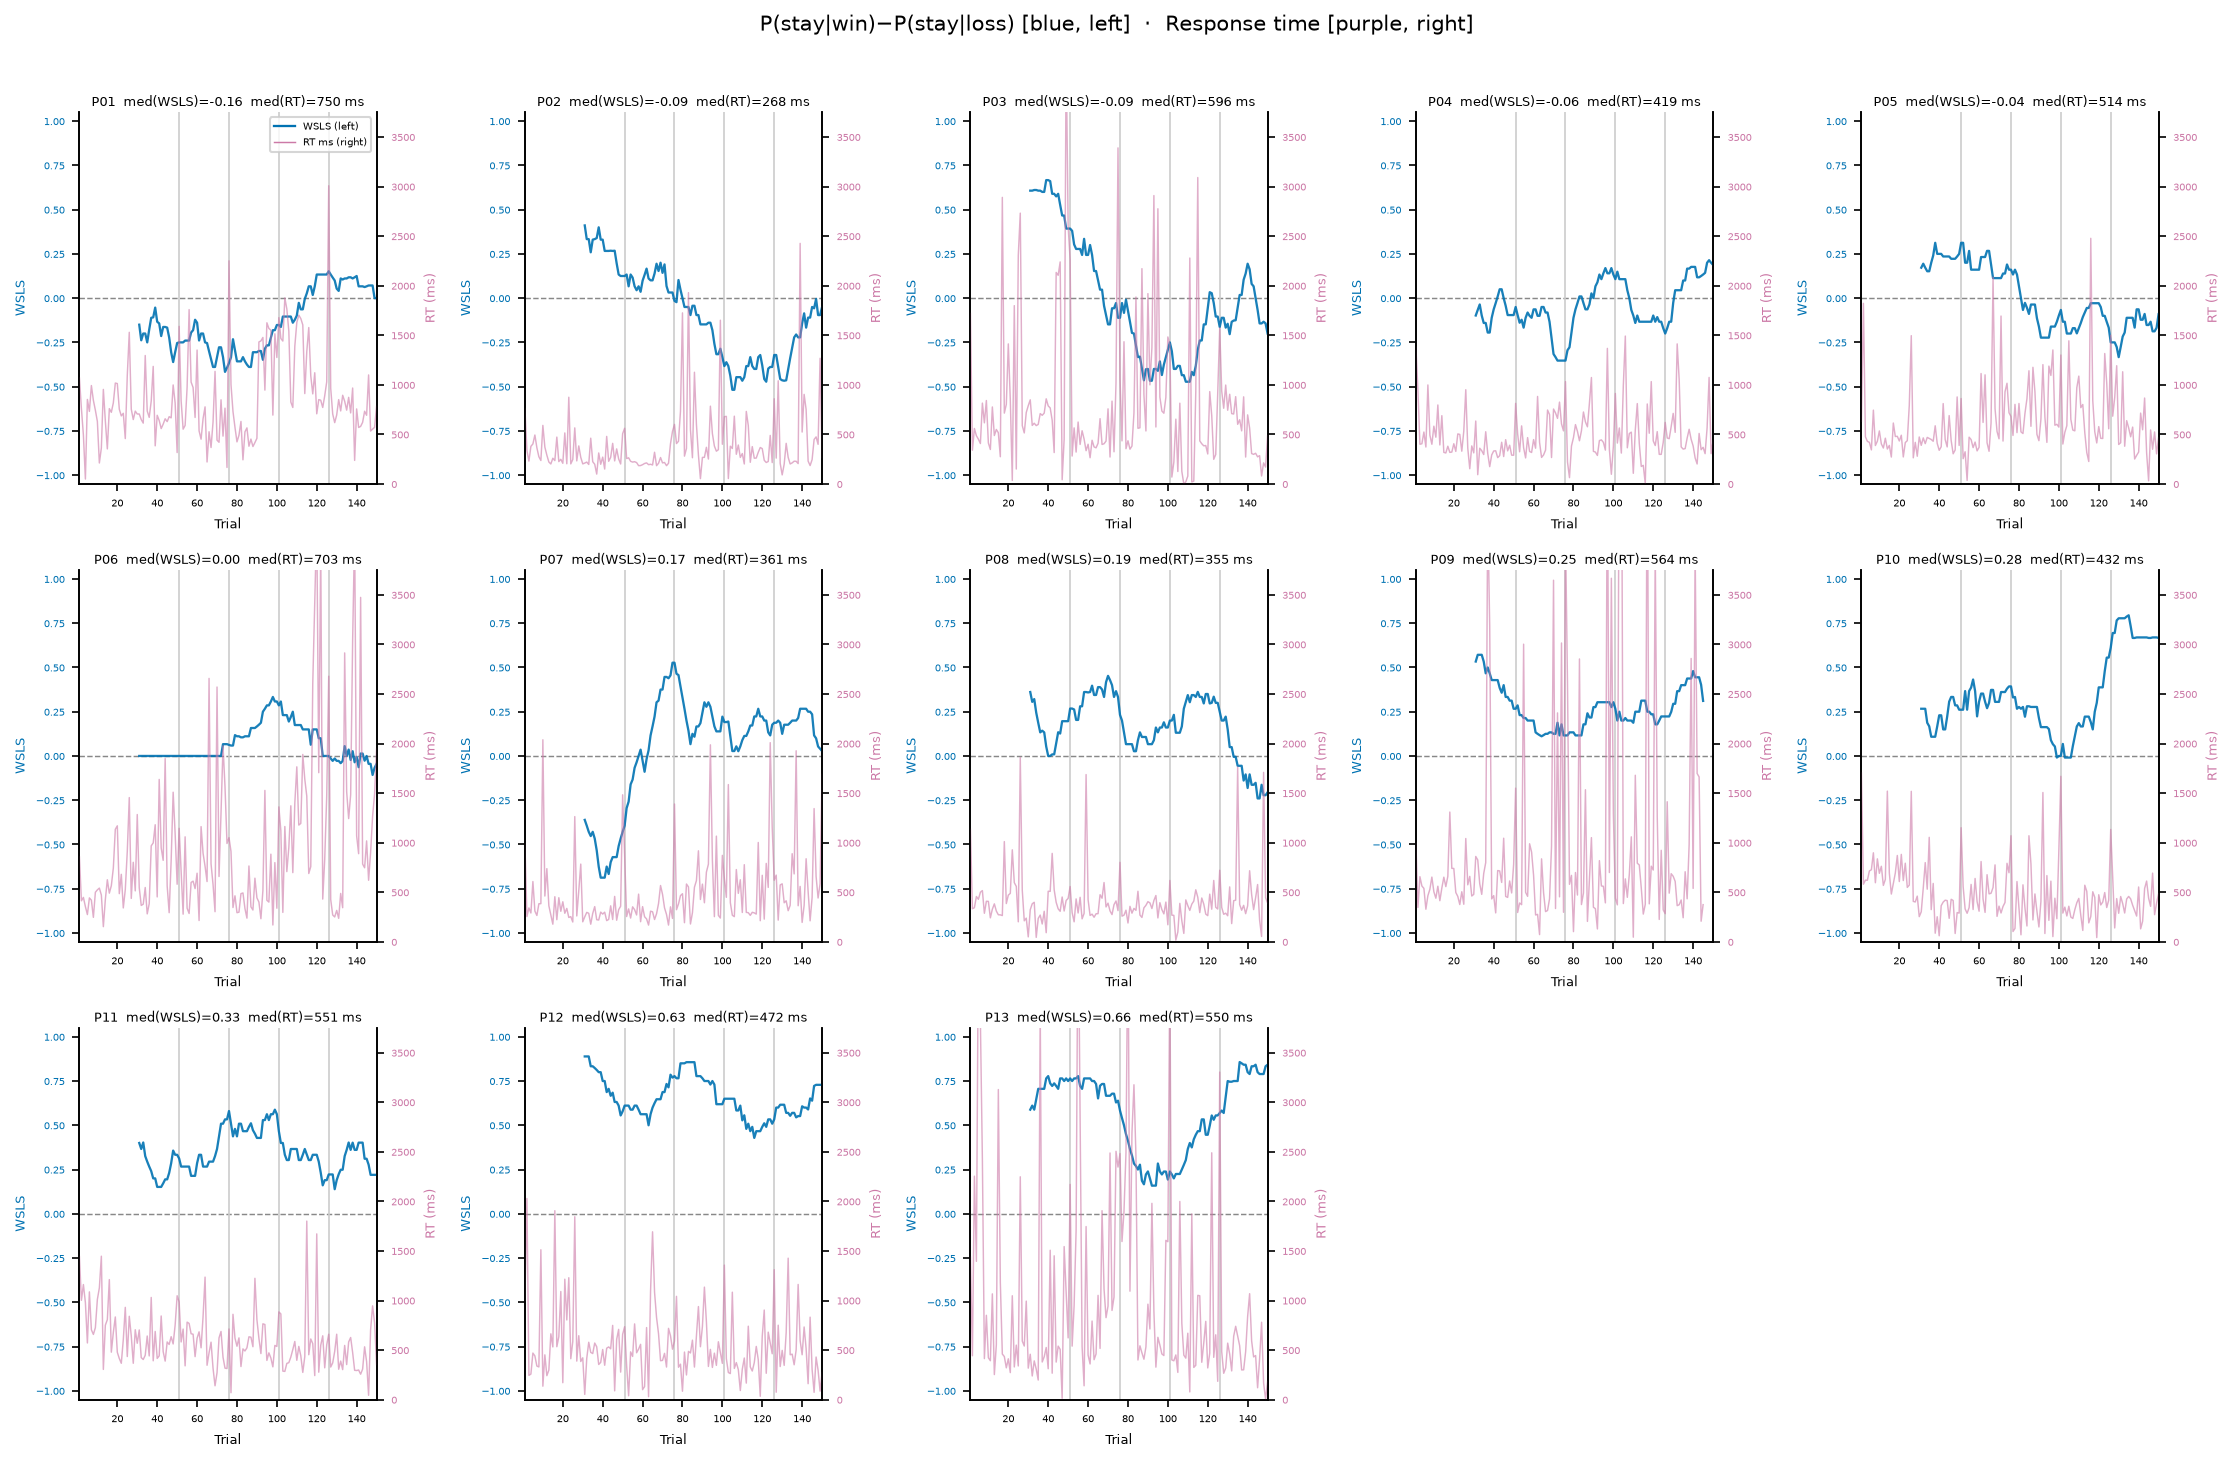
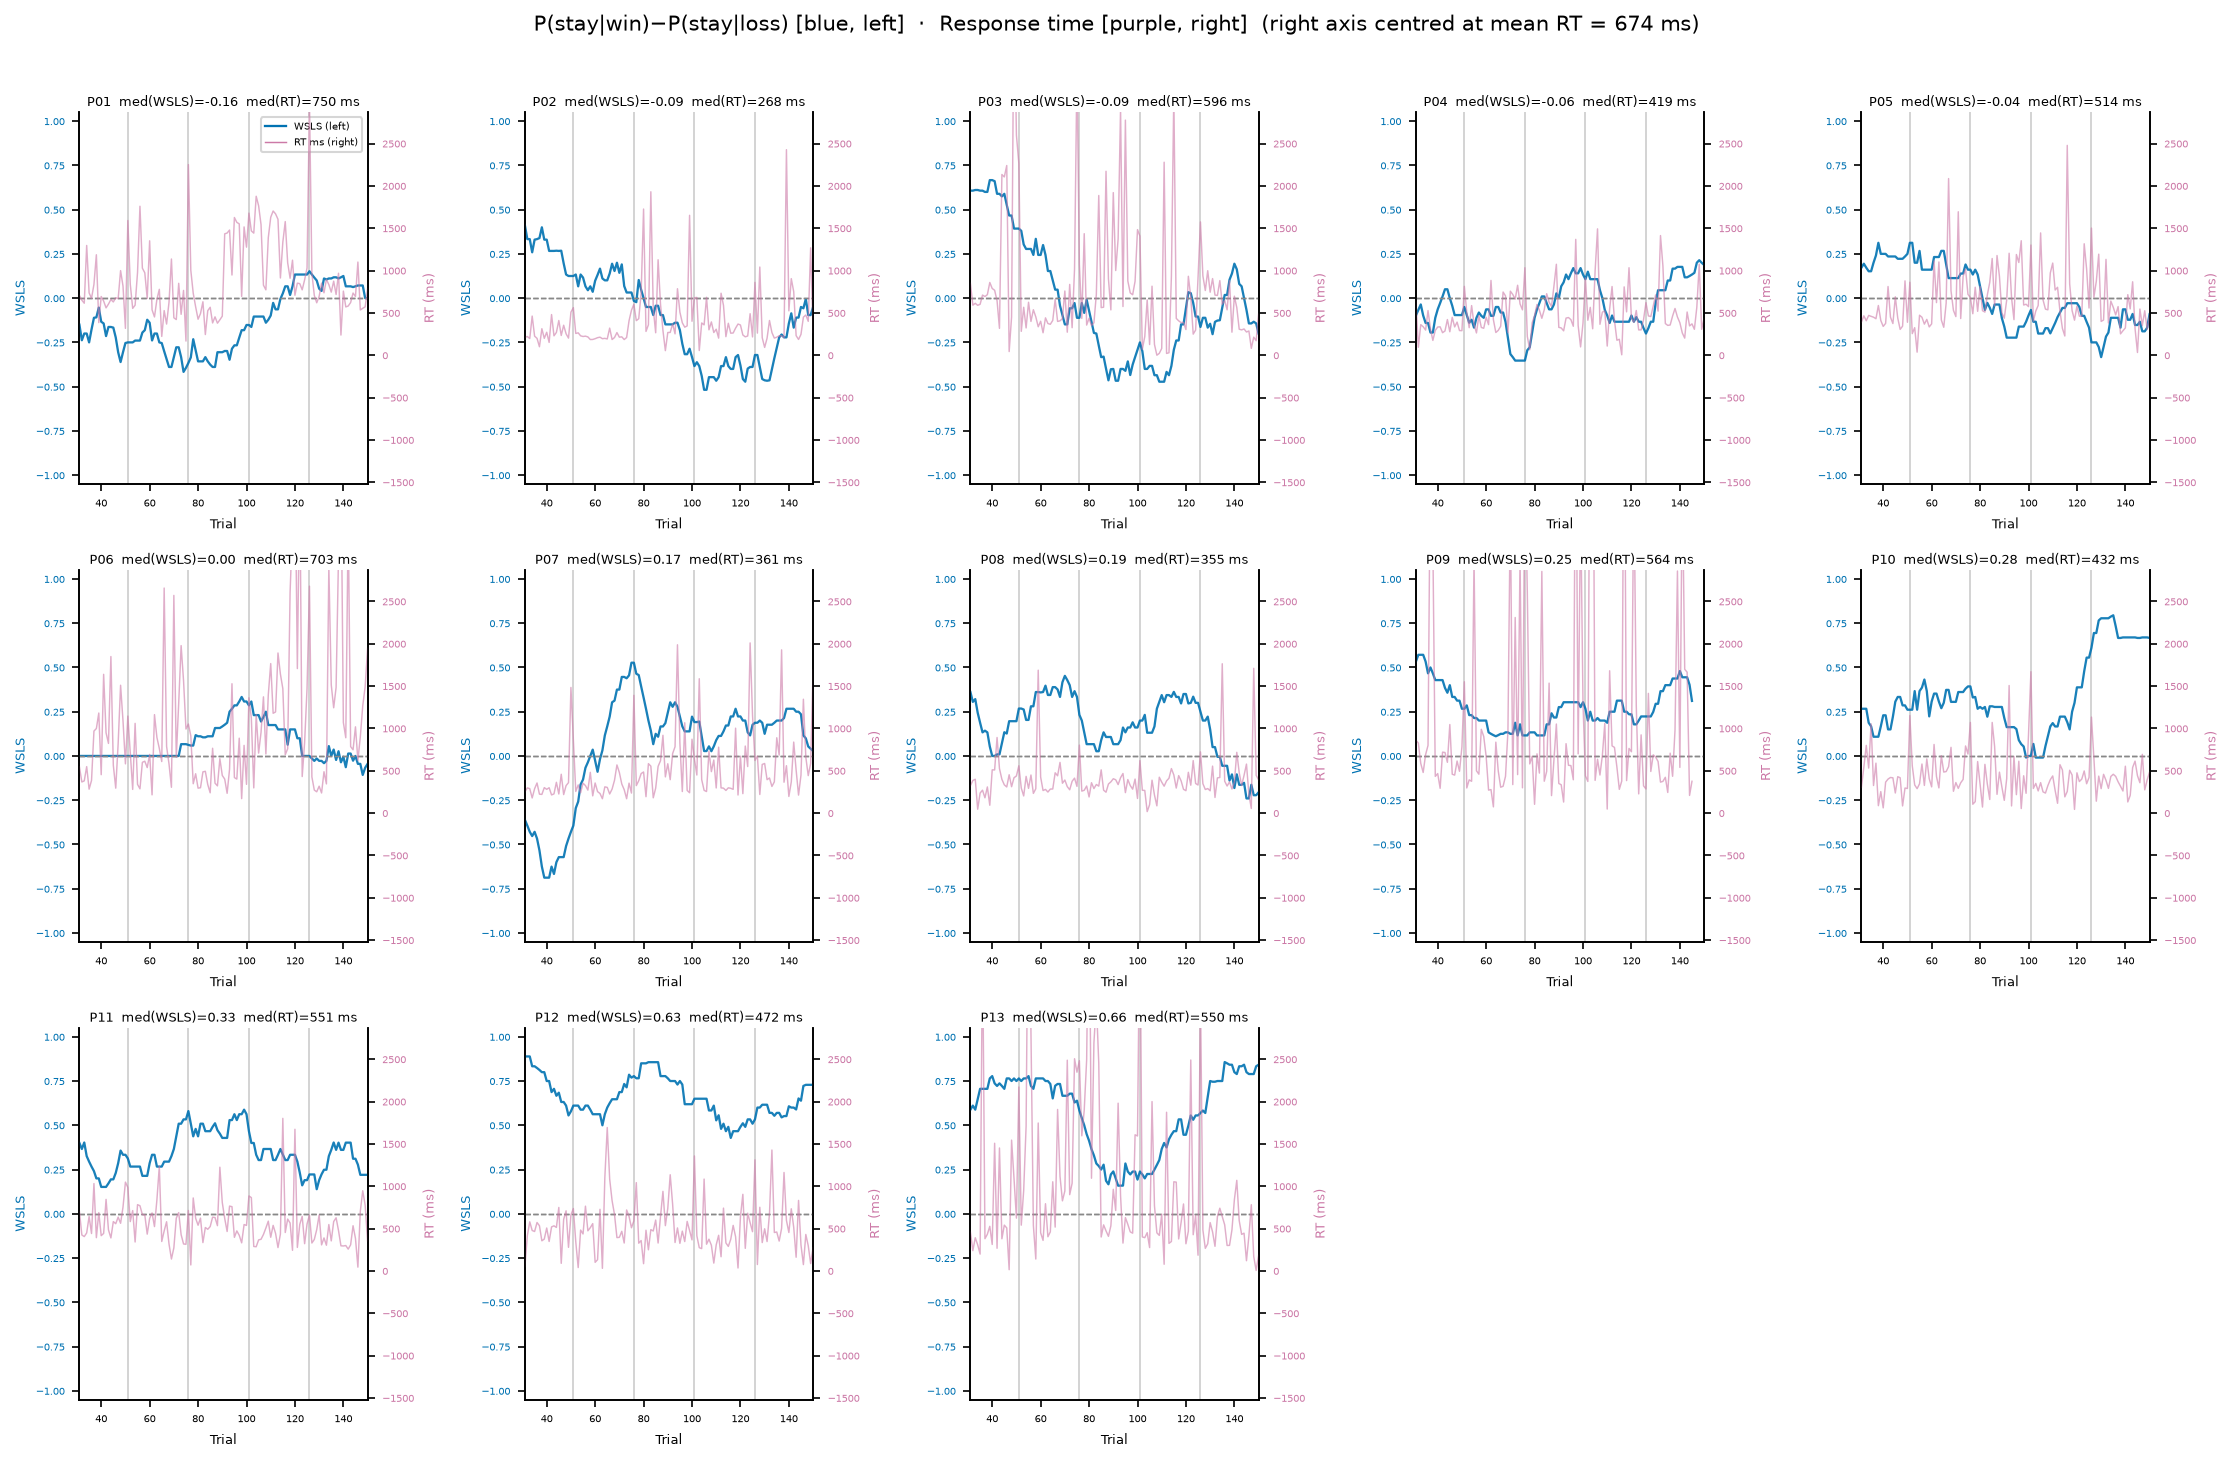
Scale RT axis: centre at mean RT, amplitude matches WSLS amplitude
Right y-axis centred at global mean RT (674 ms, trials 31+).
Half-range = 1.05 × (std_RT / std_WSLS) so visual amplitude is
comparable between the two signals. Both plots start at trial 31.

Claude-Session: https://claude.ai/code/session_019wzScn3HGgyLKJhpLSofF8

diff --git a/analysis/running_wsls/running_wsls_rt.py b/analysis/running_wsls/running_wsls_rt.py
@@ -87,7 +87,12 @@ def running_wsls(choices, rewards, window=WINDOW):
     return np.arange(window + 1, T + 1), wsls
 
 
-def plot_wsls_rt(subjects, rt_lim, out_path):
+def plot_wsls_rt(subjects, mu_rt, rt_half, out_path):
+    """
+    mu_rt    : global mean RT (ms) — maps to y=0 on right axis
+    rt_half  : half-range of right axis in ms, chosen so that
+               1 SD of RT looks like 1 SD of WSLS visually
+    """
     n     = len(subjects)
     ncols = 5
     nrows = int(np.ceil(n / ncols))
@@ -100,17 +105,19 @@ def plot_wsls_rt(subjects, rt_lim, out_path):
         ax_r = ax_l.twinx()
 
         ax_l.axhline(0, color=ZERO_COL, linewidth=0.7, linestyle="--", zorder=1)
+        ax_r.axhline(mu_rt, color=ZERO_COL, linewidth=0.7, linestyle="--", zorder=1)
         for bs in BLOCK_STARTS:
             ax_l.axvline(bs, color=BLOCK_COL, linewidth=0.8, zorder=1)
 
-        # RT — right y-axis, all trials
-        trial_x = np.arange(1, len(s["rt"]) + 1)
-        ax_r.plot(trial_x, s["rt"], color=RT_COL, linewidth=0.7, alpha=0.6, zorder=2)
-        ax_r.set_ylim(0, rt_lim)
+        # RT — right y-axis, trials 31+
+        trial_x = np.arange(WINDOW + 1, len(s["rt"]) + 1)
+        rt_vals = s["rt"][WINDOW:]
+        ax_r.plot(trial_x, rt_vals, color=RT_COL, linewidth=0.7, alpha=0.6, zorder=2)
+        ax_r.set_ylim(mu_rt - rt_half, mu_rt + rt_half)
         ax_r.set_ylabel("RT (ms)", fontsize=6, color=RT_COL)
         ax_r.tick_params(axis="y", labelsize=5, labelcolor=RT_COL)
 
-        # WSLS — left y-axis, trial 31+
+        # WSLS — left y-axis, trials 31+
         ax_l.plot(s["x"], s["wsls"], color=WSLS_COL, linewidth=1.1, alpha=0.9, zorder=3)
         ax_l.set_ylim(-1.05, 1.05)
         ax_l.set_ylabel("WSLS", fontsize=6, color=WSLS_COL)
@@ -121,7 +128,7 @@ def plot_wsls_rt(subjects, rt_lim, out_path):
             f"  med(RT)={np.nanmedian(s['rt']):.0f} ms",
             fontsize=6, pad=3,
         )
-        ax_l.set_xlim(1, 150)
+        ax_l.set_xlim(WINDOW + 1, 150)
         ax_l.set_xlabel("Trial", fontsize=6)
         ax_l.tick_params(axis="x", labelsize=5)
         ax_l.spines[["top"]].set_visible(False)
@@ -137,7 +144,8 @@ def plot_wsls_rt(subjects, rt_lim, out_path):
         axes_flat[j].set_visible(False)
 
     fig.suptitle(
-        "P(stay|win)−P(stay|loss) [blue, left]  ·  Response time [purple, right]",
+        "P(stay|win)−P(stay|loss) [blue, left]  ·  Response time [purple, right]  "
+        f"(right axis centred at mean RT = {mu_rt:.0f} ms)",
         fontsize=10, y=1.01,
     )
     plt.tight_layout()
@@ -158,12 +166,19 @@ def main():
 
     valid.sort(key=lambda s: s["median_wsls"])
 
-    # global RT ceiling: 99th percentile across all subjects (clips outlier timeouts)
-    all_rt    = np.concatenate([s["rt"] for s in valid])
-    rt_lim    = np.nanpercentile(all_rt, 99) * 1.05
-    print(f"RT y-axis ceiling (99th pct): {rt_lim:.0f} ms")
+    # ── global scaling: trials 31+ only ──────────────────────────────────────
+    all_rt_31   = np.concatenate([s["rt"][WINDOW:] for s in valid])
+    all_wsls    = np.concatenate([s["wsls"] for s in valid])
+    mu_rt       = np.nanmean(all_rt_31)
+    std_rt      = np.nanstd(all_rt_31)
+    std_wsls    = np.nanstd(all_wsls[~np.isnan(all_wsls)])
+    # right axis half-range: 1 SD of RT maps to 1 SD of WSLS visually
+    rt_half     = 1.05 * (std_rt / std_wsls)
+    print(f"Global mean RT (trials 31+): {mu_rt:.0f} ms")
+    print(f"RT std: {std_rt:.0f} ms  |  WSLS std: {std_wsls:.3f}")
+    print(f"Right axis: [{mu_rt - rt_half:.0f}, {mu_rt + rt_half:.0f}] ms")
 
-    plot_wsls_rt(valid, rt_lim=rt_lim, out_path="running_wsls_rt.png")
+    plot_wsls_rt(valid, mu_rt=mu_rt, rt_half=rt_half, out_path="running_wsls_rt.png")
     print("Done.")
 
 
